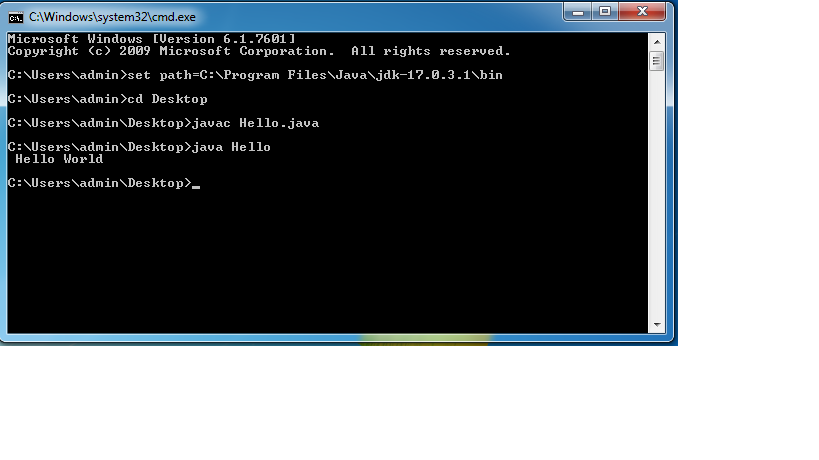
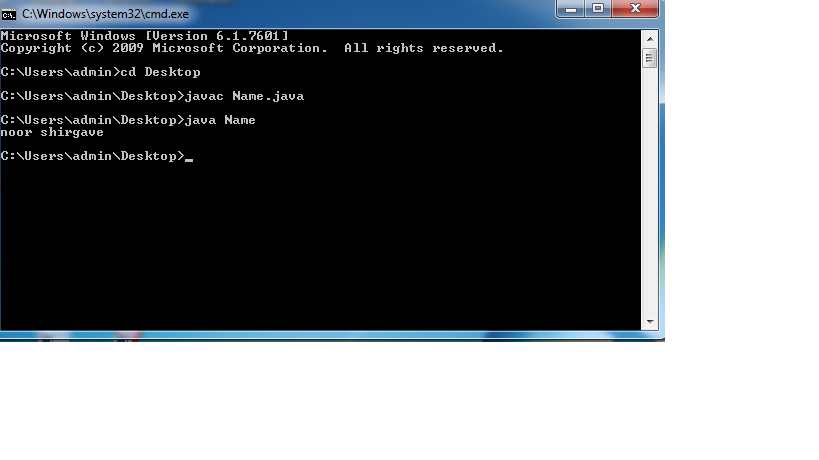
Add files via upload

Changed region(s): [[0.0, 0.0, 0.8547, 0.7609]]

diff --git a/Name.java b/Name.java
@@ -1,0 +1,8 @@
+public class Name
+{ 
+public static void main(String[] args)
+{
+System.out.println("noor shirgave");
+}
+}
+
